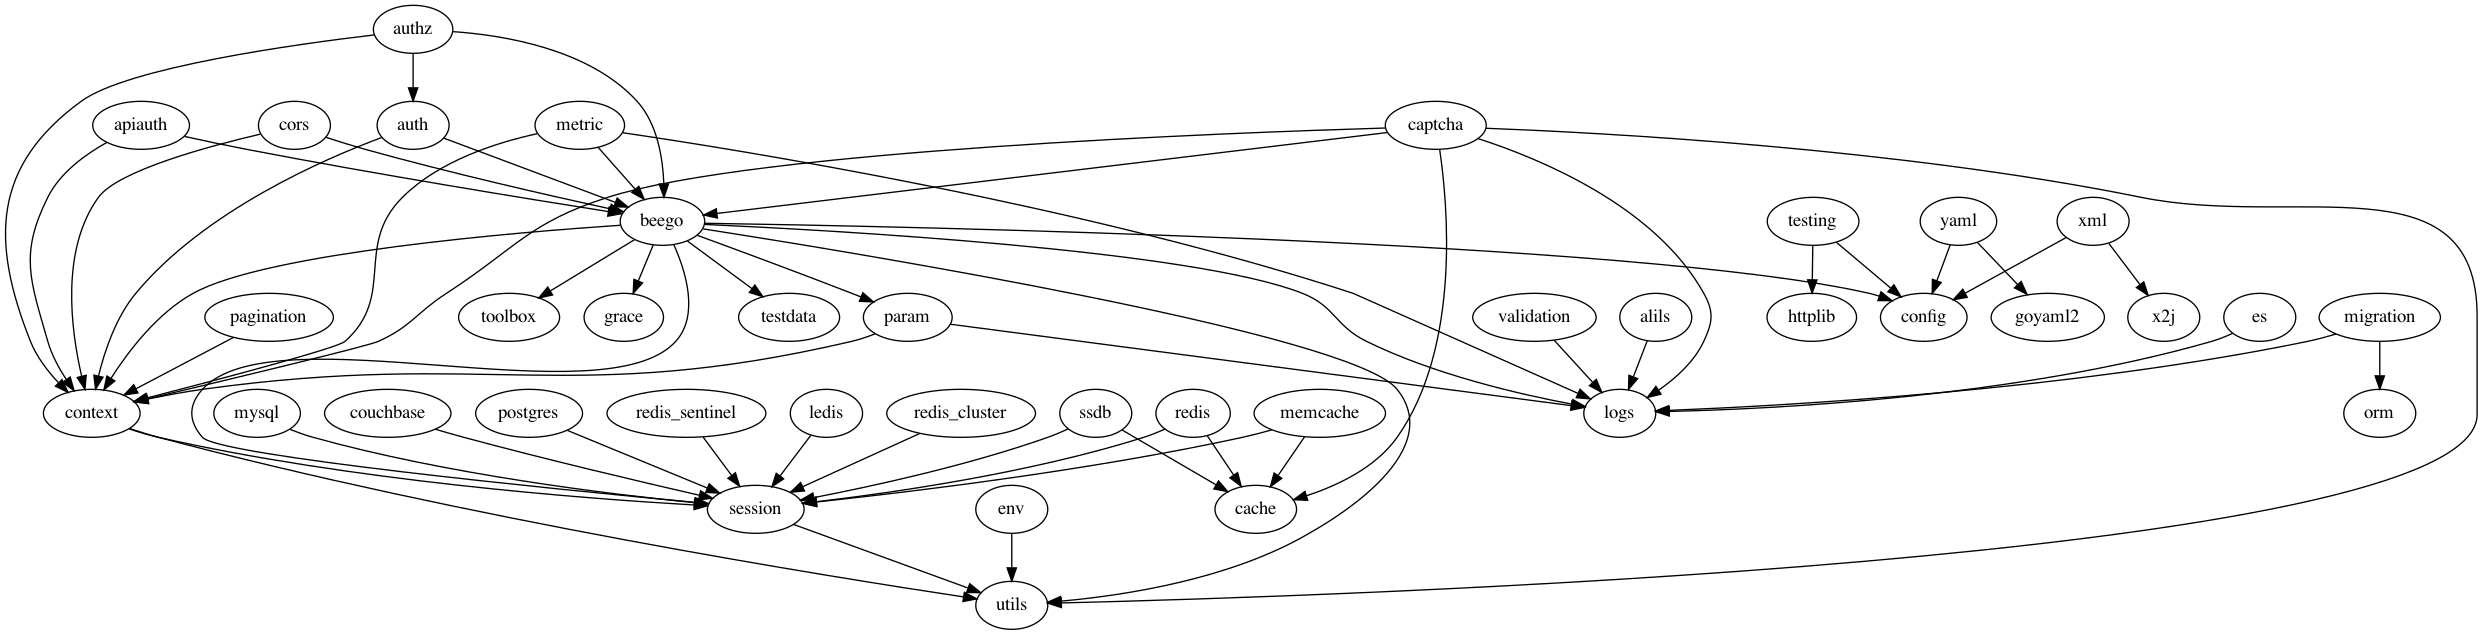
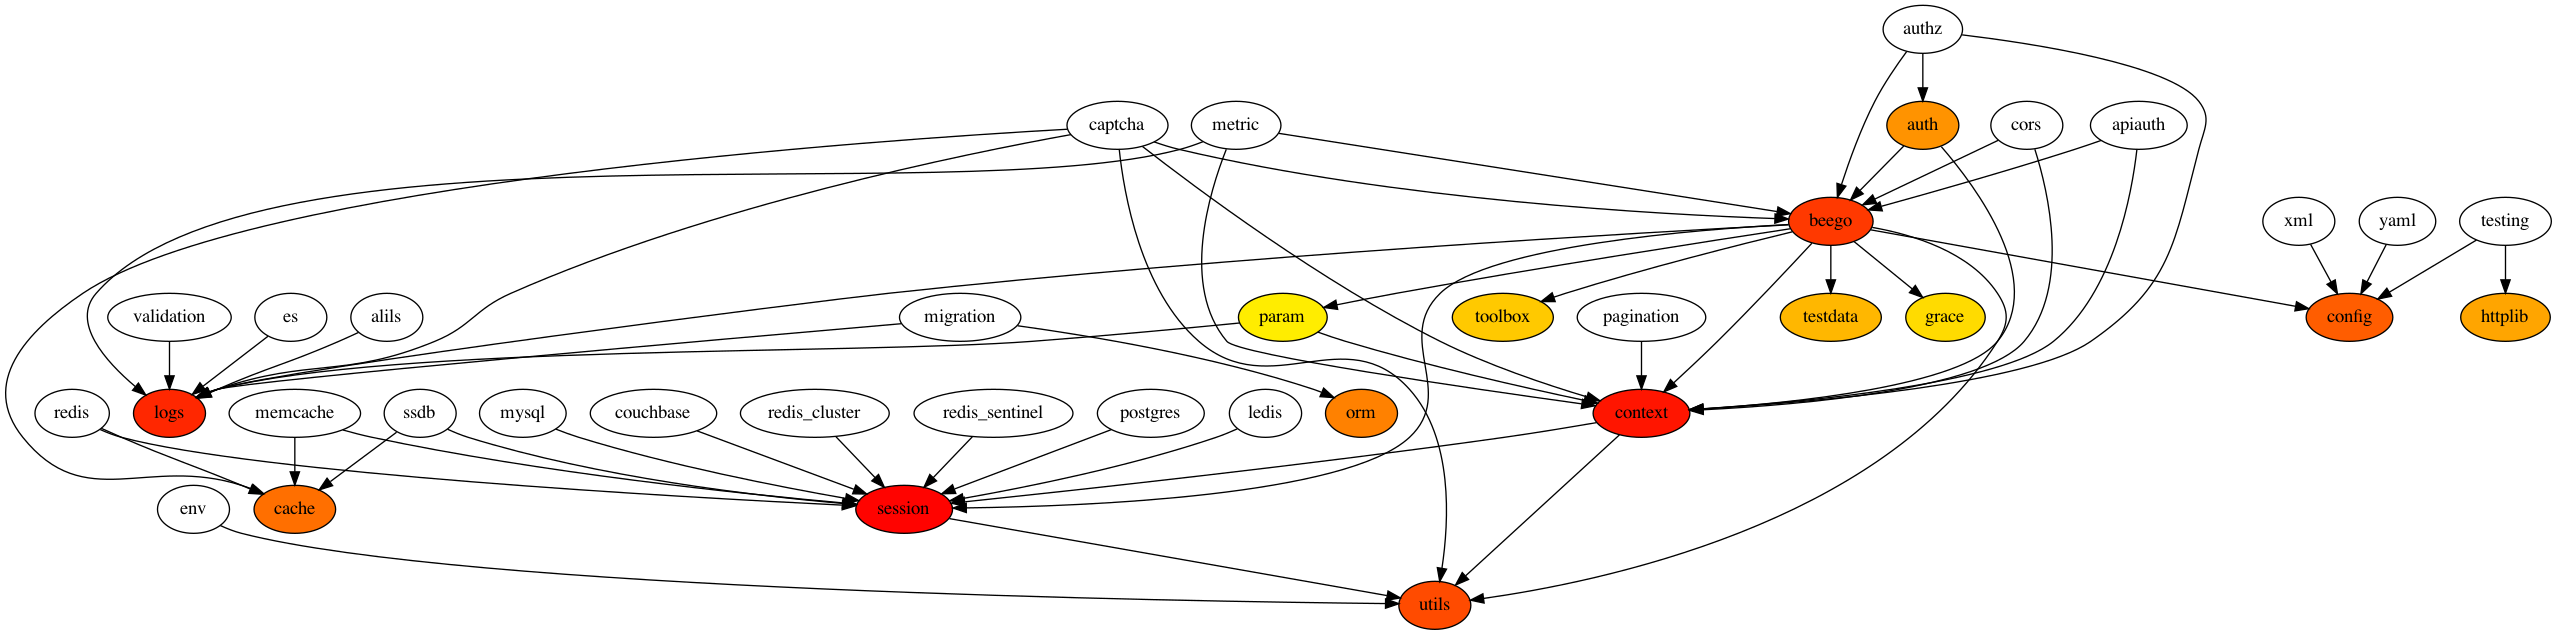
add color

diff --git a/main.go b/main.go
@@ -7,6 +7,8 @@ import (
 	"io"
 	"os"
 	"path/filepath"
+	"sort"
+	"strconv"
 	"strings"
 )
 
@@ -32,11 +34,6 @@ func main() {
 	fmt.Println("start...")
 	dag = make(map[string]map[string]int)
 	parse(pkgRootName, path)
-	for k, vm := range dag {
-		for vk, _ := range vm {
-			fmt.Println(k, vk)
-		}
-	}
 	writeToDotFile(dotFilePath)
 	fmt.Println("end...")
 }
@@ -65,7 +62,6 @@ func parse(pkgRootName, path string) {
 }
 
 func parseSingleFile(pkgRootName, path, singlePath string) {
-	fmt.Println("start...", singlePath)
 	f, err := os.Open(singlePath)
 	if err != nil {
 		panic(fmt.Sprintf("parse single file %s error:%s", singlePath, err.Error()))
@@ -105,20 +101,27 @@ func parseSingleFile(pkgRootName, path, singlePath string) {
 				tmp[importName] = 1
 				dag[packageName] = tmp
 			}
-			fmt.Println("dag:", packageName, importName)
 		}
 	}
 }
 
 func writeToDotFile(dotFilePath string) {
 	fd, _ := os.OpenFile(dotFilePath, os.O_RDWR|os.O_CREATE, 0644)
+	indegree := make(map[string]int)
 	defer fd.Close()
 	fd.Write([]byte("digraph G {\n"))
 	for k, vm := range dag {
 		for v, _ := range vm {
+			indegree[v]++
 			fd.Write([]byte(fmt.Sprintf("\t\"%s\" -> \"%s\"\n", k, v)))
 		}
 	}
+	colors := colorUseIndegree(indegree)
+	//"A" [shape=circle, style=filled, fillcolor=red]
+	for i:= 0; i<len(colors); i++{
+		fd.Write([]byte(fmt.Sprintf("\t\"%s\" [fillcolor=\"%s\", style=filled]\n", colors[i].Label, colors[i].Color)))
+	}
+
 	fd.Write([]byte("}\n"))
 }
 
@@ -138,3 +141,52 @@ func importPkgName(line, pkgRootName string) string{
 
 }
 
+type colorNode struct {
+	Label string
+	Color string
+	InDegree int
+}
+
+type colorNodes []colorNode
+
+func colorUseIndegree(indegree map[string]int) colorNodes{
+	var nodes colorNodes
+	for k, v := range indegree {
+		nodes = append(nodes, colorNode{Label:k, InDegree:v})
+	}
+	sort.Sort(nodes)
+	g := 255
+	for i := 0; i < len(nodes); i++ {
+		g = g - 255/len(nodes)
+		nodes[i].Color = rgb2hex(255, int64(g), 0)
+	}
+	return nodes
+}
+
+func (nodes colorNodes) Len() int{
+	return len(nodes)
+}
+
+func (nodes colorNodes) Swap(i, j int) {
+	nodes[i], nodes[j] = nodes[j], nodes[i]
+}
+
+func (nodes colorNodes) Less(i, j int) bool {
+	return nodes[i].InDegree < nodes[j].InDegree
+}
+
+// rgb -> hex
+func rgb2hex(r, g, b int64) string{
+	r16 := t2x(r)
+	g16 := t2x(g)
+	b16 := t2x(b)
+	return "#" + r16 + g16 + b16
+}
+
+func t2x (t int64 ) string {
+	result := strconv.FormatInt(t, 16)
+	if len(result) == 1 {
+		result = "0" + result
+	}
+	return result
+}

diff --git a/README.md b/README.md
@@ -1,5 +1,6 @@
 # go-modules-dependency-dag
-分析指定路径下的go模块依赖。
+分析指定路径下的go模块依赖。<br>
+并用颜色区分被其他模块import的频次。从黄色到红色，频次递增。 
 
 ## Install
 go get -u github.com/hongweikkx/go-modules-dependency-dag
